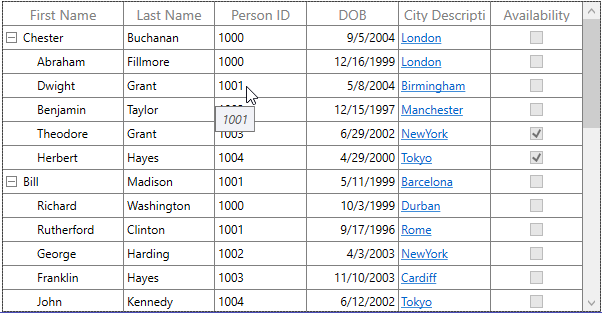
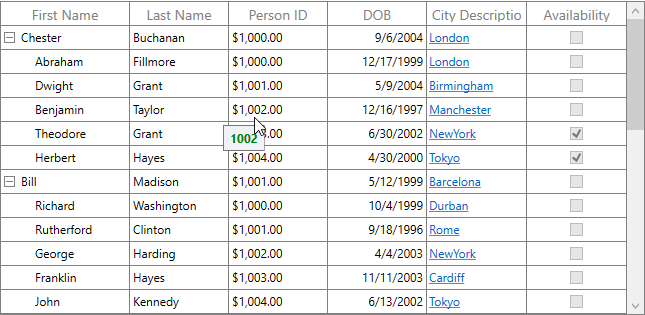
WPF-39899 Tooltip templateselector changes are committed.

Changed region(s): [[0.0, 0.0, 1.0, 1.0]]

diff --git a/wpf/SfTreeGrid/Interactive-Feature.md b/wpf/SfTreeGrid/Interactive-Feature.md
@@ -76,11 +76,13 @@ this.treeGrid.Columns["FirstName"].ShowHeaderToolTip = true;
 
 ![](Interactive-Features_images/InteractiveFeatures_img2.png)
 
-## Templating ToopTip
+## Custom ToopTip
 
-### Templating Cell ToopTip
+You can customize the template of cell and header tooltip.
 
-You can template the appearance of the tooltip for particular column by setting [TreeGridColumn.ToolTipTemplate](http://help.syncfusion.com/cr/cref_files/wpf/sfdatagrid/Syncfusion.SfGrid.WPF~Syncfusion.UI.Xaml.Grid.GridColumnBase~ToolTipTemplate.html). `ToolTipTemplate` receives underlying data object as DataContext.
+### Cell ToopTip
+
+You can customize the appearance of the tooltip for particular column by setting [TreeGridColumn.ToolTipTemplate](http://help.syncfusion.com/cr/cref_files/wpf/sfdatagrid/Syncfusion.SfGrid.WPF~Syncfusion.UI.Xaml.Grid.GridColumnBase~ToolTipTemplate.html). `ToolTipTemplate` receives underlying data object as DataContext. 
 
 {% tabs %}
 {% highlight xaml %}
@@ -127,36 +129,92 @@ public class StringToImageConverter : IValueConverter
 
 You can get the sample from [here](http://www.syncfusion.com/downloads/support/directtrac/general/ze/ToolTipTemplateDemo-1415306479.zip).
 
-### Loading Different ToolTip Template for Each Cell
+### Header ToolTip
 
-You can choose different tooltip template for cell using 
-[TreeGridColumn.ToolTipTemplateSelector](http://help.syncfusion.com/cr/cref_files/wpf/sfdatagrid/Syncfusion.SfGrid.WPF~Syncfusion.UI.Xaml.Grid.GridColumnBase~ToolTipTemplateSelector.html) properties. 
+You can customize the appearance of header tooltip for particular column by [TreeGridColumn.HeaderToolTipTemplate](http://help.syncfusion.com/cr/cref_files/wpf/sfdatagrid/Syncfusion.SfGrid.WPF~Syncfusion.UI.Xaml.Grid.GridColumnBase~HeaderToolTipTemplate.html) property. `ToolTipTemplate` receives underlying data object as DataContext.
 
-The different tooltip template can be loaded in a same column conditionally based on data by setting `TreeGridColumn.ToolTipTemplateSelector`. `ToolTipTemplateSelector` receives underlying data object as DataContext.
+{% tabs %}
+{% highlight xaml %}
+
+<Window.Resources>
+    <local:StringToImageConverter x:Key="ImageConverter" />
+    <DataTemplate x:Key="headerToolTipTemplate">
+        <Grid>
+            <Grid.ColumnDefinitions>
+                <ColumnDefinition Width="*"/>
+                <ColumnDefinition Width="*"/>
+            </Grid.ColumnDefinitions>
+            <Image Height="30" Width="40" Source="\Assets\heading.png" />
+            <TextBlock Grid.Column="1" Text="{Binding HeaderText}" HorizontalAlignment="Center"/>
+        </Grid>
+    </DataTemplate>
+</Window.Resources>
+
+<syncfusion:SfTreeGrid.Columns>
+    <syncfusion:TreeGridTextColumn HeaderText="Last Name" MappingName="LastName"  HeaderToolTipTemplate="{StaticResource headerToolTipTemplate}" ShowHeaderToolTip="True" />
+</syncfusion:SfTreeGrid.Columns>
+	
+{% endhighlight %}
+{% endtabs %}
+
+![](Interactive-Features_images/InteractiveFeatures_img7.png)
+
+## ToolTip Customization
+
+You can change the appearance of the tooltip by customizing the style with TargetType as `ToolTip`.
+
+{% tabs %}
+{% highlight xaml %}
+
+<Window.Resources>        
+    <Style TargetType="ToolTip">
+        <Setter Property="BorderThickness" Value="1,1,1,1" />
+        <Setter Property="BorderBrush" Value="Red" />
+        <Setter Property="Background" Value="SkyBlue" />
+    </Style>
+</Window.Resources>
+
+<syncfusion:SfTreeGrid.Columns>
+    <syncfusion:TreeGridTextColumn HeaderText="First Name" MappingName="FirstName" ShowToolTip="True" />
+</syncfusion:SfTreeGrid.Columns>
+	
+{% endhighlight %}
+{% endtabs %}
+
+![](Interactive-Features_images/InteractiveFeatures_img3.png)
+
+You can customize the template selector of tooltip by using the 
+[TreeGridColumn.ToolTipTemplateSelector](http://help.syncfusion.com/cr/cref_files/wpf/sfdatagrid/Syncfusion.SfGrid.WPF~Syncfusion.UI.Xaml.Grid.GridColumnBase~ToolTipTemplateSelector.html) property. 
+
+The different tooltip template can be loaded in a same column conditionally based on data by setting `TreeGridColumn.ToolTipTemplateSelector`. `ToolTipTemplateSelector` receives underlying data object as DataContext.You can set [TreeGridColumn.SetCellBoundToolTip](https://help.syncfusion.com/cr/cref_files/wpf/sfdatagrid/Syncfusion.SfGrid.WPF~Syncfusion.UI.Xaml.Grid.GridColumnBase~SetCellBoundToolTip.html) as `true` to change the DataContext of tooltip template where it sets the DataContext as DataContextHelper. DataContextHelper has below properties to re-use the same template for all columns. 
+ <ul>  
+ <li><b>Record: </b> Gets the record of hovered cell in the SfTreeGrid.  </li>
+ <li><b>Value:  </b> Gets the underlying value of hovered cell. </li> 
+ </ul>
+You can set `SetCellBoundToolTip` as `true`, when you want to bind with underlying cell display text directly.
 
 {% tabs %}
 {% highlight xaml %}
 
 <Window.Resources>
     <DataTemplate x:Key="ToolTip1">
-        <Grid>
-            <Rectangle Fill="Transparent"/>
-            <TextBlock Text="{Binding Id}" FontWeight="Bold" Background="LightPink"/>
+        <Grid>                
+            <TextBlock Text="{Binding Record.Id}" FontWeight="Bold" Foreground="Red" />
         </Grid>
     </DataTemplate>
     <DataTemplate x:Key="ToolTip2">
         <Grid>
-            <Rectangle Fill="Transparent"/>
-            <TextBlock Text="{Binding Id}" FontStyle="Italic" Background="LightGreen"/>
+            <TextBlock Text="{Binding Record.Id}" FontWeight="Bold" Foreground="Green"/>                
         </Grid>
-    </DataTemplate>
+    </DataTemplate>      
 </Window.Resources>
 
 <syncfusion:SfTreeGrid.Columns>
     <syncfusion:TreeGridTextColumn HeaderText="Person ID" MappingName="Id" ShowToolTip="True" >
         <syncfusion:TreeGridTextColumn.ToolTipTemplateSelector>
-            <local:ToolTipTemplateSelector AlternateTemplate="{StaticResource ToolTip2}" 
-                                                DefaultTemplate="{StaticResource ToolTip1}" />
+            <syncfusion:TreeGridTextColumn HeaderText="Person ID" MappingName="Id" 
+                                               DisplayBinding="{Binding Path=Id, StringFormat=c}"
+                                               ShowToolTip="True" SetCellBoundToolTip="True" >
         </syncfusion:TreeGridTextColumn.ToolTipTemplateSelector>
     </syncfusion:TreeGridTextColumn>
 </syncfusion:SfTreeGrid.Columns>
@@ -190,14 +248,11 @@ public class ToolTipTemplateSelector : DataTemplateSelector
 
     public override System.Windows.DataTemplate SelectTemplate(object item, System.Windows.DependencyObject container)
     {
-        //The item that comes from ToolTipTemplate is DataContextHelper. When set SetCellBoundValue to true, it sets DataContextHelper as DataContext to DataTemplate. Refer property section of CellTemplate.
-        Employee dataUnit = item as Employee;
-        if (dataUnit == null) return this.DefaultTemplate;
-        //use reflection to retrieve property
-        Type type = dataUnit.GetType();
-        PropertyInfo property = type.GetProperty("Id");
-        //To see what template needs to be select according to the specified property value.
-        if (property.GetValue(dataUnit, null).ToString().Contains("111") || property.GetValue(dataUnit, null).ToString().Contains("333"))
+        var treeGridData = item as TreeGridDataContextHelper;
+        if (treeGridData == null)
+            return this.DefaultTemplate;
+        // To see what template needs to be select according to the specified property value.
+        if ((treeGridData.Record as Employee).Id == (int)treeGridData.Value && ((int)treeGridData.Value % 2) == 0)
             return this.AlternateTemplate;
         else
             return this.DefaultTemplate;
@@ -207,49 +262,15 @@ public class ToolTipTemplateSelector : DataTemplateSelector
 {% endhighlight %}
 {% endtabs %}
 
-The below image refers the DefaultTemplate which is applied through ToolTipTemplateSelector.
+Refer the below image, the DataTemplate of Tooltip1 style are applied through `ToolTipTemplateSelector` and shown tooltip content as Red color. 
 
 ![](Interactive-Features_images/InteractiveFeatures_img5.png)
 
-The below image refers the AlternateTemplate which is applied through ToolTipTemplateSelector.
+Refer the below image, the DataTemplate of Tooltip2 style are applied through `ToolTipTemplateSelector` and shown tooltip content as Green color. 
 
 ![](Interactive-Features_images/InteractiveFeatures_img6.png)
 
-You can get the sample from [here](http://www.syncfusion.com/downloads/support/directtrac/general/ze/ToolTipTemplateSelectorDemo1292485348.zip).
-
-### Templating Header ToolTip
-
-You can template the appearance of header tooltip for particular column by [TreeGridColumn.HeaderToolTipTemplate](http://help.syncfusion.com/cr/cref_files/wpf/sfdatagrid/Syncfusion.SfGrid.WPF~Syncfusion.UI.Xaml.Grid.GridColumnBase~HeaderToolTipTemplate.html) property. `ToolTipTemplate` receives underlying data object as DataContext.
-
-{% tabs %}
-{% highlight xaml %}
-
-<Window.Resources>
-    <local:StringToImageConverter x:Key="ImageConverter" />
-    <DataTemplate x:Key="headerToolTipTemplate">
-        <Grid>
-            <Grid.ColumnDefinitions>
-                <ColumnDefinition Width="*"/>
-                <ColumnDefinition Width="*"/>
-            </Grid.ColumnDefinitions>
-            <Image Height="30" Width="40" Source="\Assets\heading.png" />
-            <TextBlock Grid.Column="1" Text="LastName" VerticalAlignment="Center"/>
-        </Grid>
-    </DataTemplate>
-</Window.Resources>
-
-<syncfusion:SfTreeGrid.Columns>
-    <syncfusion:TreeGridTextColumn HeaderText="Last Name" MappingName="LastName"  HeaderToolTipTemplate="{StaticResource headerToolTipTemplate}" ShowHeaderToolTip="True" />
-</syncfusion:SfTreeGrid.Columns>
-	
-{% endhighlight %}
-{% endtabs %}
-
-![](Interactive-Features_images/InteractiveFeatures_img7.png)
-
-## ToolTip Customization
-
-
+You can get the sample from [here](http://www.syncfusion.com/downloads/support/directtrac/general/ze/ToolTipTemplateSelectorDemo1909534526.zip).
 
 ## Events
 
@@ -308,11 +329,11 @@ private void TreeGrid_ToolTipClosing(object sender, System.Windows.Controls.Tool
 [CellToolTipOpening](https://help.syncfusion.com/cr/cref_files/wpf/sfdatagrid/Syncfusion.SfGrid.WPF~Syncfusion.UI.Xaml.TreeGrid.SfTreeGrid~CellToolTipOpening_EV.html) event occurs when hover the cell in the SfTreeGrid.
 
 <ul>
-<li> Column: Gets the Column of hovered cell in the SfTreeGrid.</li>
-<li> Node: Gets the Node of hovered cell.</li>
-<li> Record: Gets the data context of hovered cell.</li>
-<li> RowColumnIndex: Gets the Row,Column index of hovered cell.</li>
-<li> ToolTip: Gets the tooltip of hovered cells</li>
+<li> <b>Column:</b> Gets the Column of hovered cell in the SfTreeGrid.</li>
+<li> <b>Node:</b> Gets the Node of hovered cell.</li>
+<li> <b>Record:</b> Gets the data context of hovered cell.</li>
+<li> <b>RowColumnIndex:</b> Gets the Row,Column index of hovered cell.</li>
+<li> <b>ToolTip:</b> Gets the tooltip of hovered cells</li>
 </ul>
 
 {% tabs %}
@@ -335,48 +356,3 @@ private void TreeGrid_CellToolTipOpening(object sender, Syncfusion.UI.Xaml.TreeG
 }
 {% endhighlight %}
 {% endtabs %}
-
-## Showing ToolTip for Empty Cells
-
-To show the tooltip for empty cells by handling the loaded event of the content loading into the tooltip template.  In the below code, the loaded event of the TextBlock is handled and the parent Tooltip, is found by using the FindAncestor method. When the TextBlock.Text is empty, then set the ToolTip.IsOpen to true and set the text for TextBlock to show the tooltip for cell.
-
-{% tabs %}
-{% highlight xaml %}
-
-<syncfusion:SfTreeGrid.Columns>
-    <syncfusion:TreeGridTextColumn MappingName="Id" />
-    <syncfusion:TreeGridTextColumn HeaderText="First Name" MappingName="FirstName" ShowToolTip="True">
-        <syncfusion:TreeGridTextColumn.ToolTipTemplate>
-            <DataTemplate>
-                <local:ToolTipExt Text="{Binding Path=FirstName}" />
-            </DataTemplate>
-        </syncfusion:TreeGridTextColumn.ToolTipTemplate>
-    </syncfusion:TreeGridTextColumn>    
-</syncfusion:SfTreeGrid.Columns>
-
-{% endhighlight %}
-{% highlight c# %}
-using Microsoft.VisualStudio.PlatformUI;
-
-public class ToolTipExt : TextBlock
-{
-    public ToolTipExt()
-    {
-        this.Loaded += TextBlockExt_Loaded;
-    }
-    void TextBlockExt_Loaded(object sender, RoutedEventArgs e)
-    {
-        if (!string.IsNullOrEmpty(this.Text))
-            return;
-        var tooltip = this.FindAncestor<ToolTip>();
-        if (IsVisible)
-        {
-            this.Text = "Cell value as empty";
-            tooltip.IsOpen = true;                
-        }
-    }
-}
-{% endhighlight %}
-{% endtabs %}
-
-![](Interactive-Features_images/InteractiveFeatures_img8.png)
